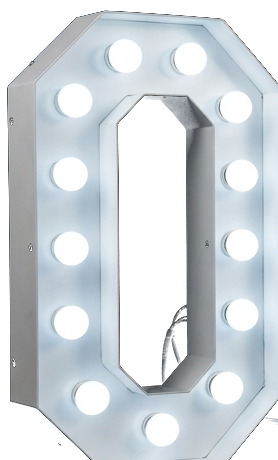
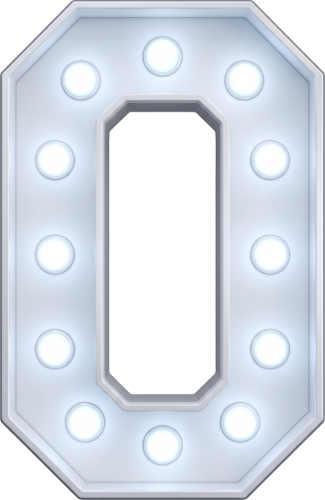
feat: atualizar letras 3, 5, U, O, R, hash, amp, e I com ajuste proporcional e fundo transparente

diff --git a/index.html b/index.html
@@ -17,7 +17,7 @@
   <link rel="icon" type="image/png" href="assets/images/logo.png?v=3">
 
   <!-- Stylesheet -->
-  <link rel="stylesheet" href="css/style.css?v=6">
+  <link rel="stylesheet" href="css/style.css?v=7">
 </head>
 <body>
 
@@ -885,6 +885,6 @@
   </div>
 
   <!-- Scripts -->
-  <script src="js/main.js?v=6"></script>
+  <script src="js/main.js?v=7"></script>
 </body>
 </html>
